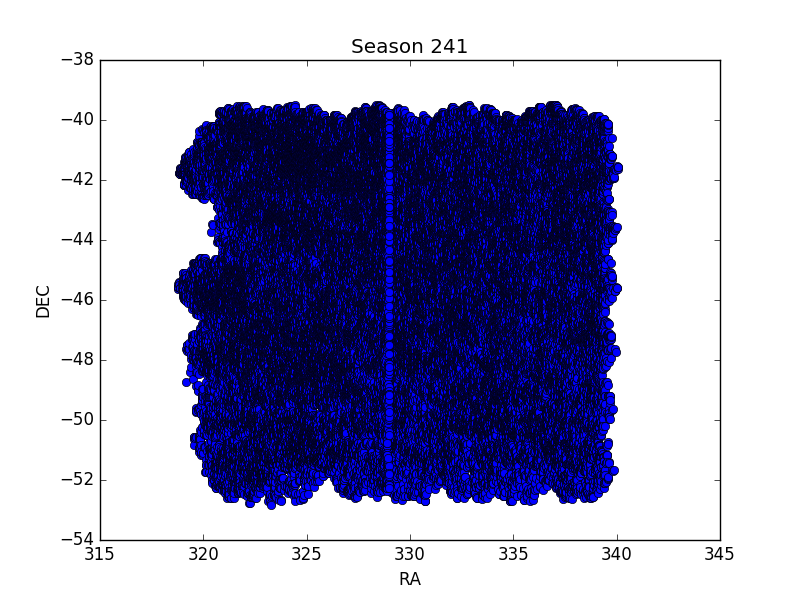
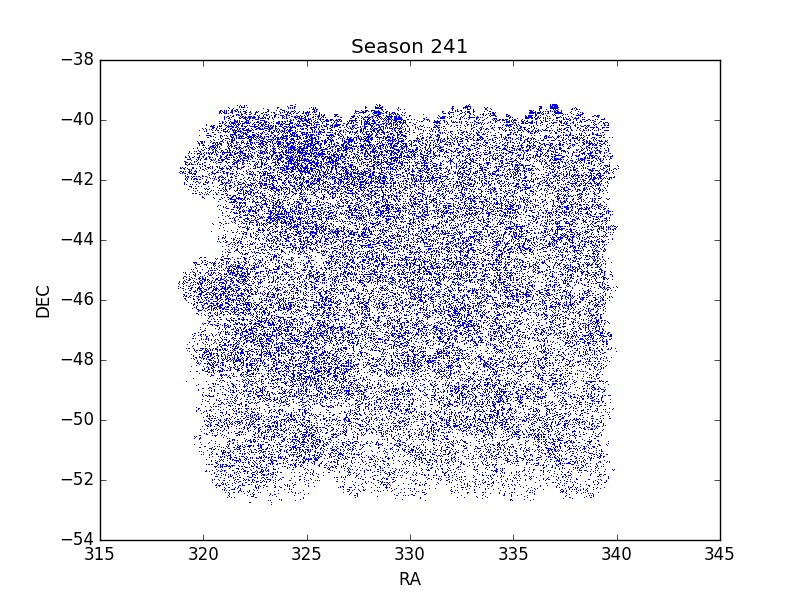
Fixed overlap issue

diff --git a/generateTransients.py b/generateTransients.py
@@ -8,8 +8,8 @@ from linkmap import build_kdtree
 import matplotlib.pyplot as plt
 import Find_imgs
 
-#zeropoints = pd.read_csv('fgcm_zeropoints_v2_0.csv')
-#zeropoints_Y4 = pd.read_csv('Y4N_zeropoints_03.09.2017.csv')
+zeropoints = pd.read_csv('fgcm_zeropoints_v2_0.csv')
+zeropoints_Y4 = pd.read_csv('Y4N_zeropoints_03.09.2017.csv')
 all_exps = pd.read_csv('exposures.csv')
 
 
@@ -157,7 +157,7 @@ def overlap(df1, df2):
 
     df_hash = {}
     for index, row in df_short.iterrows():
-        df_hash[(round(row['ra'], 2), round(row['dec'], 2), row['date'])] = index
+        df_hash[(round(row['ra'], 3), round(row['dec'], 3), row['date'])] = index
 
     overlap_index_short = []
     overlap_index_long = []
@@ -173,6 +173,33 @@ def overlap(df1, df2):
     return df_overlap
 
 
+def mag_calib(row):
+    '''
+    Calculates the calibrated magnitude from the flux.
+    :param row: object data (as a pandas Series)
+    :return: calibrated magnitude
+    '''
+    try:
+        if row['expnum']<552000: # Y3A1
+            zpt = zeropoints.ix[(zeropoints['expnum']==row['expnum']) & (zeropoints['ccd']==row['ccd'])]
+            mag = zpt['fgcm_zpt'] - 2.5*np.log10(row['flux_auto'])
+        elif 552000<row['expnum']<622400:   # Y4
+            try:
+                if row['ccd'] == -99:
+                    mag = 99
+                else:
+                    zpt = zeropoints_Y4.ix[(zeropoints_Y4['EXPNUM']==row['expnum']) & (zeropoints_Y4['CCDNUM']==row['ccd'])]
+                    mag = -zpt['NewZP'] - 2.5*np.log10(row['flux_auto'])
+            except Exception as oops:
+                print oops
+                print row
+    except KeyError as e:
+        print 'Error, ', e
+#        print row
+        mag = 99
+    return mag
+
+
 def main():
     desoper = ea.connect(section='desoper')
     dessci = ea.connect(section='dessci')
@@ -180,42 +207,68 @@ def main():
     # ra_deg = 315.1
     # dec_deg = -44.25
 
-    ra_deg = 310.
-    dec_deg = -56.
+    # ra_deg = 310.
+    # dec_deg = -58.
+
+    # ra_deg = 310.
+    # dec_deg = -46.
+
+    # ra_deg = 307.3
+    # dec_deg = -56.9
+
+    # ra_deg = 307.3
+    # dec_deg = -55.4
+
+    # ra_deg = 308.85
+    # dec_deg = -56.3
+
+    ra_deg = 311.68
+    dec_deg = -56.28
+
 
     ra = ephem.degrees(ra_deg * ephem.pi / 180)
     dec = ephem.degrees(dec_deg * ephem.pi / 180)
-    box = 100.  # arcsec
+    box = 200.  # arcsec
     season = 250
     se_df = get_SE_detections(desoper, ra, dec, box)
     coadd_df = get_coadd_cutout(dessci, ra, dec, box)
 
-    # coadd_df.to_pickle('coadd.pickle')
-    # se_df.to_pickle('se.pickle')
+    coadd_df.to_pickle('coadd.pickle')
+    se_df.to_pickle('se.pickle')
 
-    coadd_df = pd.read_pickle('coadd.pickle')
-    se_df = pd.read_pickle('se.pickle')
+    # coadd_df = pd.read_pickle('coadd.pickle')
+    # se_df = pd.read_pickle('se.pickle')
 
     catalog_df = get_transient_detections(se_df, coadd_df, 1)
     catalog_df['date'] = catalog_df['date'].apply(lambda date: str(ephem.date(date)))
-
     diff_img_df = get_diffimg_cutout(ra, dec, box, season)
 
     catalog_df.to_pickle('catalog_df.pickle')
     diff_img_df.to_pickle('diff_img_df.pickle')
-
+    #
     # catalog_df = pd.read_pickle('catalog_df.pickle')
     # diff_img_df = pd.read_pickle('diff_img_df.pickle')
+
+    # catalog_df = pd.read_pickle('catalog_df_LARGE.pickle')
+    # diff_img_df = pd.read_pickle('diff_img_df_LARGE.pickle')
+
+    # catalog_df['mag'] = catalog_df.apply(mag_calib, axis=1)
+
     overlap_df = overlap(diff_img_df, catalog_df)
 
     print "Catalog Only: ", len(catalog_df)
     print "Diff Img Only: ", len(diff_img_df)
     print "Both: ", len(overlap_df)
 
-    # plt.plot(catalog_df['ra'], catalog_df['dec'], linestyle='None', color='g', marker='o')
-    # plt.plot(diff_img_df['ra'], diff_img_df['dec'], linestyle='None', color='r', marker='o')
-    # plt.plot(overlap_df['ra'], overlap_df['dec'], linestyle='None', color='b', marker='o')
-    # plt.savefig('detections.png')
+    plt.plot(catalog_df['ra'], catalog_df['dec'], linestyle='None', color='g', marker='o')
+    plt.plot(diff_img_df['ra'], diff_img_df['dec'], linestyle='None', color='r', marker='o')
+    plt.plot(overlap_df['ra'], overlap_df['dec'], linestyle='None', color='b', marker='o')
+    plt.title("Diff Img vs. Catalog Transients")
+    plt.xlabel("RA\n(deg)")
+    plt.ylabel("DEC\n(deg)")
+    plt.tight_layout()
+
+    plt.savefig('detections_small.png')
     expnumCCD_list = []
     catalog_list = []
     diff_img_list = []
@@ -241,7 +294,6 @@ def main():
 
     Find_imgs.findImgs(expnumCCD_list, catalog_list, diff_img_list, overlap_list, ra_deg,
                        dec_deg, box * 2, coadd_list=coadd_list, keep_fits=False)
-
 
 
     # fig_cat, ax_cat = plt.subplots(2, 2, sharex='col', sharey='row')

diff --git a/Find_imgs.py b/Find_imgs.py
@@ -153,14 +153,12 @@ def ds9cut(fits_filename, expnum, ccd, ra, dec, cat_list, diff_img_list, both_li
     print dec_ang.to_string(unit=u.degree, sep=':', alwayssign=True)
     png_name = fits_filename.split('.')[0]
 
-    # subprocess.check_call("export DISPLAY=:1", shell=True)
-    # subprocess.check_call("Xvfb :1 -screen 0 1024x768x16 &", shell=True)
     cmdstr = ""
-    cmdstr += 'export DISPLAY=:1; Xvfb :1 -screen 0 1024x768x16 & '
+    # cmdstr += 'export DISPLAY=:1; Xvfb :1 -screen 0 1024x768x16 & '
     cmdstr += 'ds9x ' + str(fits_filename) + ' -scale zscale -scale squared'
-    # cmdstr += ('-crop ' + ra_ang.to_string(unit=u.hour, sep=':', alwayssign=True) + ' ' +
-    #             dec_ang.to_string(unit=u.degree, sep=':', alwayssign=True) + ' ' + str(side) + ' ' + str(side) +
-    #           ' wcs icrs arcsec')
+    cmdstr += (' -crop ' + ra_ang.to_string(unit=u.hour, sep=':', alwayssign=True) + ' ' +
+                dec_ang.to_string(unit=u.degree, sep=':', alwayssign=True) + ' ' + str(side) + ' ' + str(side) +
+              ' wcs icrs arcsec')
     cmdstr += (' -colorbar no -grid yes -grid type publication -grid system wcs -grid axes type interior' +
                ' -grid axes style 1 -grid format1 d.2 -grid format2 d.2 -grid numerics yes -grid numerics' +
                ' vertical no')
@@ -197,7 +195,8 @@ def ds9cut(fits_filename, expnum, ccd, ra, dec, cat_list, diff_img_list, both_li
             cmdstr += (' -regions command "ICRS;circle(' + ra_elt.to_string(unit=u.hour, sep=':', alwayssign=True)
                        + ',' + dec_elt.to_string(unit=u.degree, sep=':', alwayssign=True) + ',10i)#color=pink"')
 
-    cmdstr += ' -zoom to fit -saveimage ' + str(png_name) + '.png -exit'
+    cmdstr += ' -zoom to fit -saveimage ' + str(png_name) + '.png'
+    # cmdstr += ' -exit'
     print cmdstr
     subprocess.check_call(cmdstr, shell=True)
     os.system("rm -f /tmp/.X1-lock")

diff --git a/season_footprint.py b/season_footprint.py
@@ -13,7 +13,7 @@ for szn in [240, 241, 242, 250]:
 
     diff_df = diffimg(szn)
     plt.figure()
-    plt.plot(diff_df['ra'], diff_df['dec'], linestyle='None', marker='o')
+    plt.plot(diff_df['ra'], diff_df['dec'], linestyle='None', marker=',')
     plt.title("Season " + str(szn))
     plt.xlabel("RA")
     plt.ylabel("DEC")
